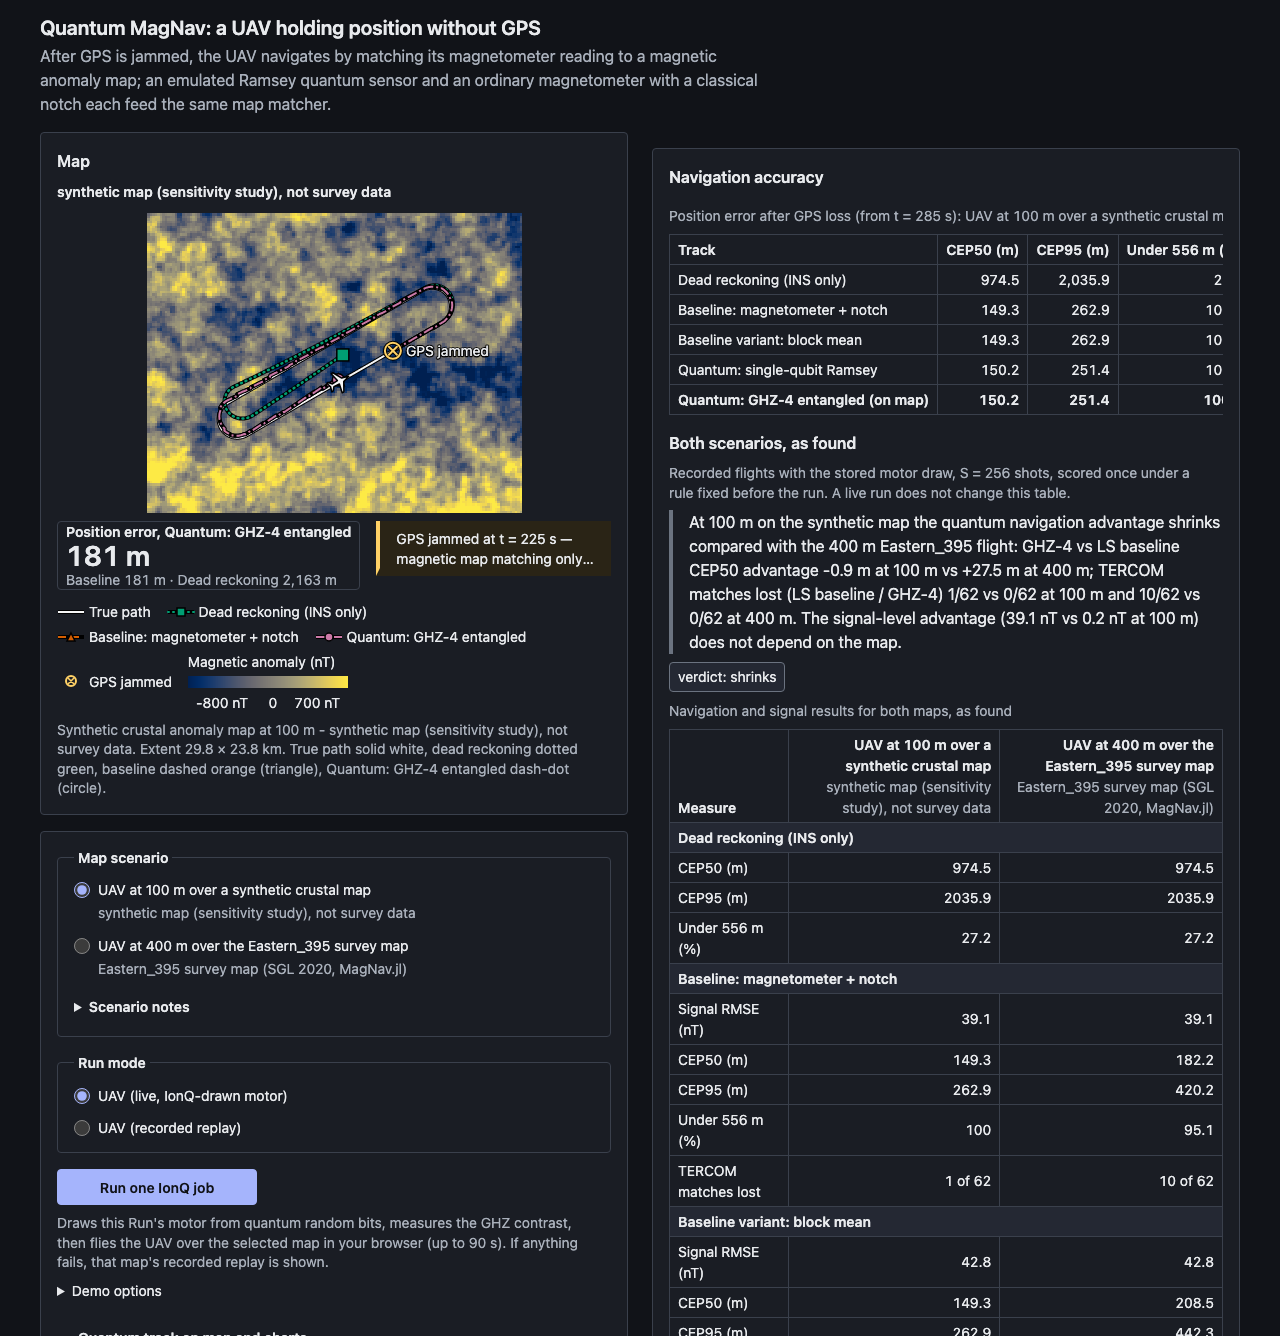
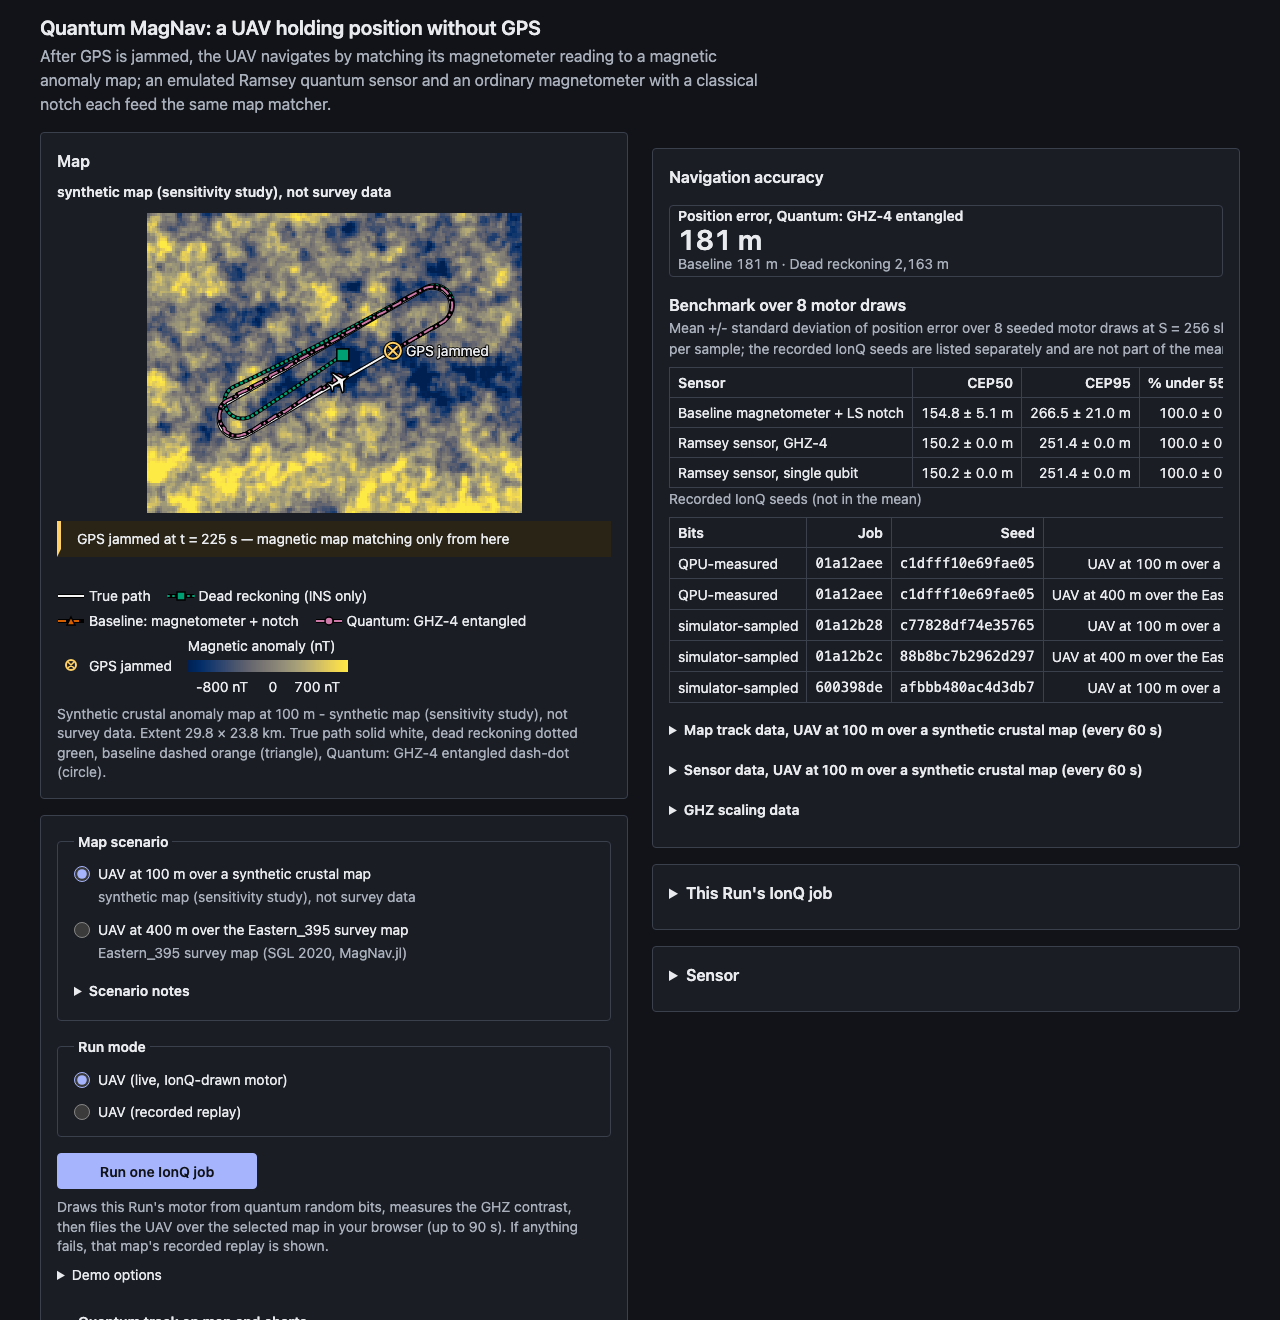
test(03-07-adhoc): audit the new results layout; regenerate a11y artifacts and hero
- audit.mjs checks the error box is first in Navigation accuracy and above the benchmark, not under the map, follows the playhead (Home/End), keeps a fixed 72 px height; row under the map is jam-only at a fixed 56 px; per-track and comparison tables absent
- results/a11y_keyboard.json and docs/hero.png regenerated (axe: zero violations in all six states, results/a11y_axe.json unchanged)
- docs/A11Y.md and the README hero alt text describe the new placement

Changed region(s): [[0.5, 0.1242, 0.9688, 1.0], [0.0312, 0.0311, 0.5625, 0.9629], [0.9062, 0.9629, 0.9688, 1.0]]

diff --git a/docs/A11Y.md b/docs/A11Y.md
@@ -1,8 +1,8 @@
 # Accessibility audit (A11Y-03)
 
-**Status:** the automated audit passes on the final layout. It finds zero axe violations of any impact, from critical down to minor, in all six states. Every required keyboard target is reachable with Tab. The job and sensor sections open on their own after a Run, and the position-error readout row stays 72 px high throughout. The on-Qollab human walkthrough is recorded below by plan 03-07.
+**Status:** the automated audit passes on the final layout. It finds zero axe violations of any impact, from critical down to minor, in all six states. Every required keyboard target is reachable with Tab. The job and sensor sections open on their own after a Run. The row under the map (jam banner only) stays 56 px high and the position-error box stays 72 px high throughout. The on-Qollab human walkthrough is recorded below by plan 03-07.
 
-Re-run with `npm --prefix web run audit` (or `cd web && node scripts/audit.mjs`). It rewrites `results/a11y_axe.json`, `results/a11y_keyboard.json` and `docs/hero.png`, and exits 1 on any critical or serious violation, an unreached keyboard target, sections that do not auto-open, or a change in the readout row height.
+Re-run with `npm --prefix web run audit` (or `cd web && node scripts/audit.mjs`). It rewrites `results/a11y_axe.json`, `results/a11y_keyboard.json` and `docs/hero.png`, and exits 1 on any critical or serious violation, an unreached keyboard target, sections that do not auto-open, a change in the height of the row under the map or of the position-error box, or a layout check failure (see [Layout](#layout-position-error-box-and-readme-only-tables)).
 
 ## Tools and target
 
@@ -34,7 +34,7 @@ Viewports: wide 1280 x 900, narrow 390 x 844. States:
 Moderate and minor findings: none.
 
 **Fixed during this audit.** The first run reported one serious rule, `scrollable-region-focusable`, in every state:
-- **Where:** the horizontally scrollable wrappers around the position-error, comparison, benchmark, recorded-seeds and text-alternative tables (3 nodes with sections closed, 6 with them open).
+- **Where:** the horizontally scrollable wrappers around the position-error, comparison, benchmark, recorded-seeds and text-alternative tables (3 nodes with sections closed, 6 with them open). The position-error and comparison tables have since moved to the README.
 - **Fix:** each wrapper is now a focusable, named region (`web/src/components/TableScroll.jsx`: `role="region"`, `aria-label`, `tabIndex=0`), and the focus ring comes from the existing `:focus-visible` token.
 - **Keys:** the page-wide playback keys (Space, arrows, Home, End, J) now skip a focused table region, so those keys scroll the table instead of moving the playhead.
 
@@ -54,16 +54,15 @@ Tab from the top of the page, recorded in `results/a11y_keyboard.json`:
 8. **Play** / Pause (button)
 9. Flight time (slider)
 10. Speed (select)
-11. Position error table (scroll region)
-12. Comparison table (scroll region)
-13. Comparison rule (summary)
-14. Benchmark summary table (scroll region)
-15. Recorded IonQ seeds table (scroll region)
-16. Map track data (summary)
-17. Sensor data (summary)
-18. GHZ scaling data (summary)
-19. **This Run's IonQ job** (summary)
-20. **Sensor** (summary)
+11. Benchmark summary table (scroll region)
+12. Recorded IonQ seeds table (scroll region)
+13. Map track data (summary)
+14. Sensor data (summary)
+15. GHZ scaling data (summary)
+16. **This Run's IonQ job** (summary)
+17. **Sensor** (summary)
+
+The position-error box is read-only text, not a Tab stop. DOM order equals the single-column order, so this order is the same at every width.
 
 Required targets:
 
@@ -81,11 +80,21 @@ The page has no real-flight link. UI-SPEC A-8 and SCN-03 forbid any link, entry 
 Other keyboard checks:
 - On the focused "Sensor" summary, Enter opens the section and Space closes it.
 - After the keyboard-started stub Run, both "This Run's IonQ job" and "Sensor" are open (D-02 auto-open).
-- The readout row height (D-03) is 72 px when idle, while the Run is in progress, and after the Run with the jam banner showing.
+- The row under the map (D-03, now the jam banner only) is 56 px high when idle, while the Run is in progress, and after the Run with the jam banner showing. The position-error box is 72 px high in the same three states.
+- With focus outside any control, Home moves the playhead to the start and the box reads "GPS available"; End moves it to the end and the box shows the error in metres. The box follows the playhead from its new place.
+
+## Layout: position-error box and README-only tables
+
+Since the 03-07 ad-hoc change (Eason, 2026-10-11) the position-error box is the first item of "Navigation accuracy", above the benchmark, and no longer sits under the map. The row under the map holds only the GPS-jam banner, at a fixed height. The per-track CEP table ("Position error after GPS loss") and the two-scenario comparison ("Both scenarios, as found") are no longer on the page; they are in the README under [Recorded flights after GPS loss](../README.md#recorded-flights-after-gps-loss). The box is not a live region: the single Announcer still speaks the throttled readout during playback, unchanged.
+
+The audit checks this on every viewport, idle and after the Run, and records it under `layout` in `results/a11y_keyboard.json`:
+- the box is the first element after the section heading and comes before the benchmark;
+- exactly one box is on the page, and none is under the map, whose row contains only the jam slot;
+- no table caption starts with "Position error after GPS loss" or "Navigation and signal results for both maps", and no "Both scenarios, as found" heading or comparison block is present.
 
 ## Hero screenshot
 
-`docs/hero.png` is taken from the same wide page, sections closed, with reduced motion. It is 1280 px wide and extends just past the Run row, so it shows the map with its full trajectory, the position-error readout, the scenario and run-mode pickers, and the Run button under the map. It is captured from the local stub page and contains no account UI or tokens.
+`docs/hero.png` is taken from the same wide page, sections closed, with reduced motion. It is 1280 px wide and extends just past the Run row, so it shows the map with its full trajectory and the jam banner under it, the scenario and run-mode pickers and the Run button below that, and, in the right column, "Navigation accuracy" opening with the position-error box above the benchmark. It is captured from the local stub page and contains no account UI or tokens.
 
 ## On Qollab (human walkthrough)
 

diff --git a/README.md b/README.md
@@ -2,7 +2,7 @@
 
 Quantum MagNav keeps a fixed-wing drone located after its GPS is jammed by matching the magnetic field it measures against a survey map of eastern Ontario. The drone's motor drowns that field in tones, so the magnetometer is modelled as a quantum sensor (Ramsey interferometry, run as one circuit on IonQ through Qollab) that sets its own measurement window from the motor RPM and cancels the tones before any data exists. It is compared, with the same number of measurements per sample (an equal shot budget), with an ordinary magnetometer plus a classical notch filter, and the write-up says plainly where the quantum sensor wins, ties and loses. Built for the Qollab x IonQ Hackathon (theme: Quantum Impact).
 
-![The Quantum MagNav page: an anomaly map with the true path, dead reckoning, the classical baseline and the quantum-sensor track after the GPS jam, the position-error readout under the map, and the Run controls below it](docs/hero.png)
+![The Quantum MagNav page: an anomaly map with the true path, dead reckoning, the classical baseline and the quantum-sensor track after the GPS jam, the Run controls below the map, and the Navigation accuracy panel opening with the position-error box](docs/hero.png)
 
 ## Run it on Qollab
 
